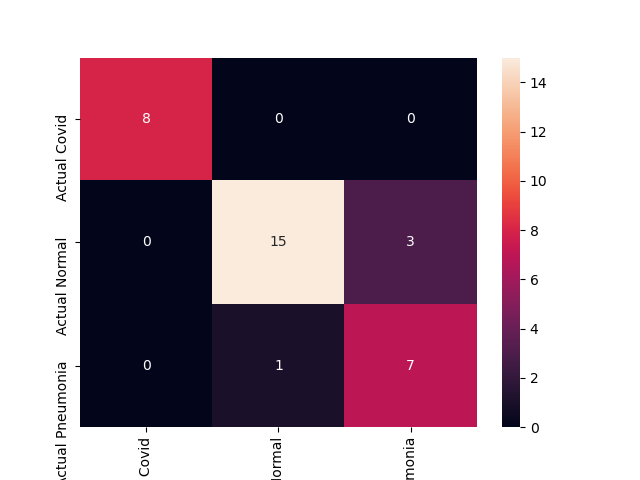
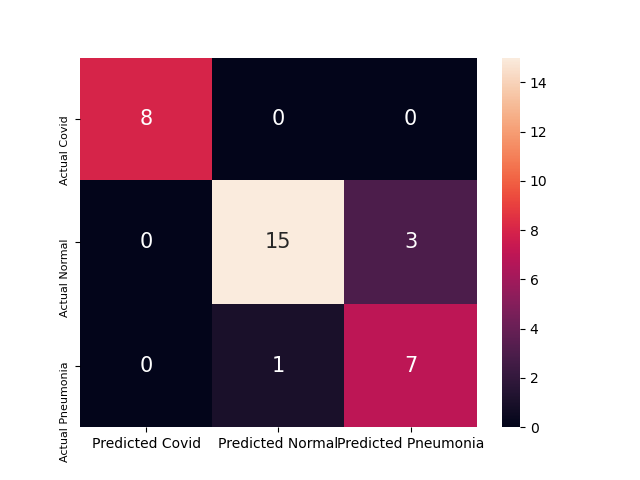
added plots

diff --git a/predict.py b/predict.py
@@ -54,5 +54,7 @@ print(accuracy_score(y_true, y_pred))
 
 cm = pd.DataFrame(data=confusion_matrix(y_true, y_pred, labels=[0, 1, 2]),index=["Actual Covid","Actual Normal", "Actual Pneumonia"],
 columns=["Predicted Covid","Predicted Normal", "Predicted Pneumonia"])
-sns_plot = sns.heatmap(cm,annot=True,fmt="d")
+sns_plot = sns.heatmap(cm,annot=True,fmt="d",annot_kws={'size': 15})
+plt.xticks(rotation=0)
+plt.yticks(fontsize = 8)
 sns_plot.figure.savefig("output.png")
